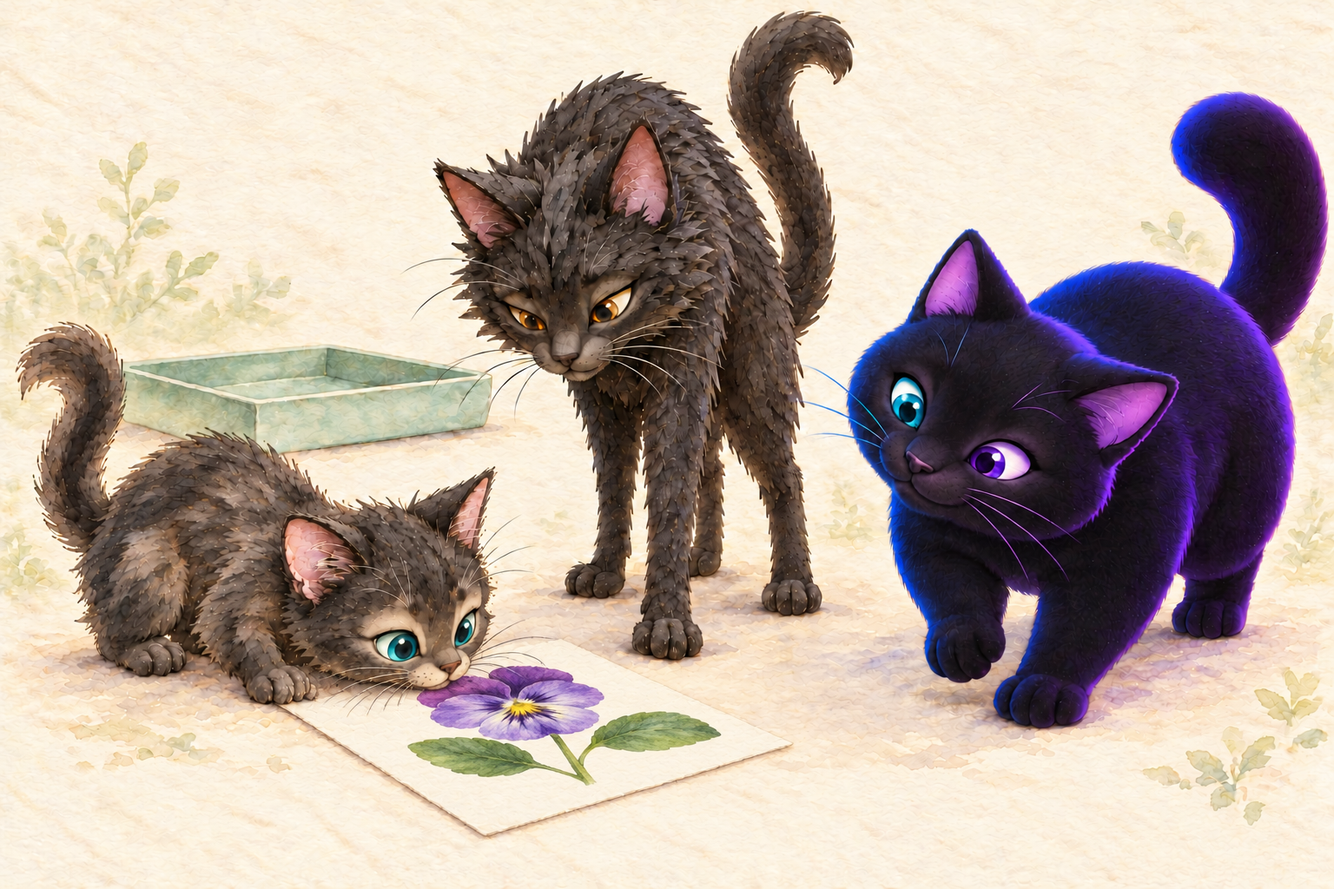
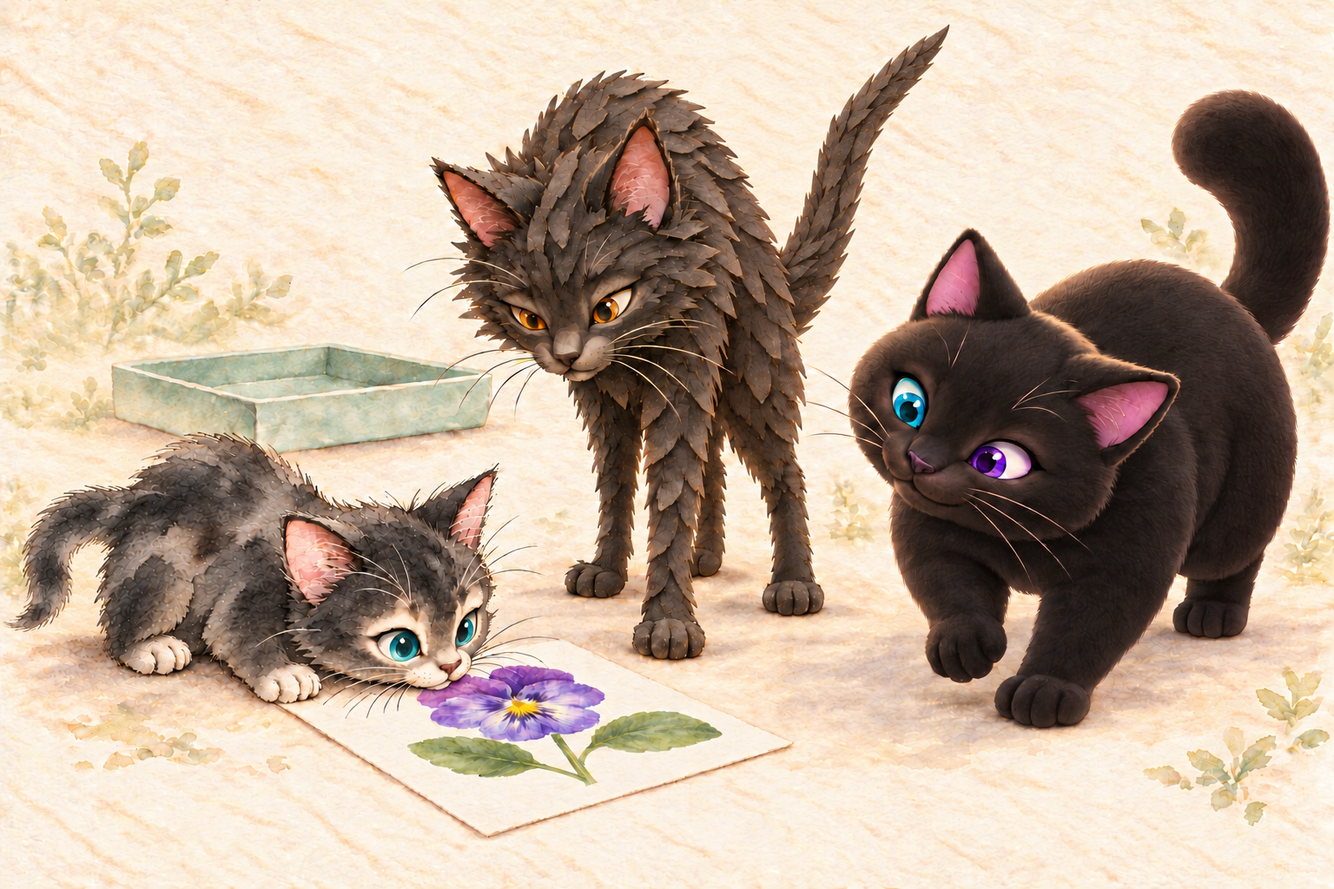
chore: update version to 0.13.1 and enhance changelog with artwork revisions

diff --git a/docs/design/explorations/art/website-cat-materials.md b/docs/design/explorations/art/website-cat-materials.md
@@ -1,0 +1,257 @@
+# Website cat materials and shared light
+
+October 17, 2026. Implements [GitHub issue #10](https://github.com/jeremyc2/Gatto/issues/10)
+and the user's follow-up corrections to the GitHub tray and final-scene tails.
+Generated with the built-in imagegen tool; no manual raster retouching.
+
+## Production assets
+
+The website uses these PNG masters and lossless WebP delivery copies at the
+original 1536 × 1024 dimensions. Historical exploration sources remain unchanged.
+
+| Scene | PNG master | Generated source |
+| --- | --- | --- |
+| bring | [story-bring.png](../../../../web/assets/images/story-bring.png) | `exec-bdcc2911-7c8d-4405-bad1-c61b53943fb7.png` |
+| upload | [story-upload.png](../../../../web/assets/images/story-upload.png) | `exec-6f226061-6a6b-469b-b32e-4adfdf2caf23.png` |
+| copy | [story-copy.png](../../../../web/assets/images/story-copy.png) | `exec-fbd6afba-c64d-46d7-b32a-f00bba866a4c.png` |
+
+## Treatment and continuity
+
+- The small teal-eyed kitten uses broad charcoal watercolor washes, soft pigment
+  edges, paper grain and delicate ink contours. Repeated cut-paper fur was removed.
+- The tall amber-eyed adult has crisp overlapping matte paper layers and visible
+  edges. The round cyan/violet-eyed adult keeps its smooth animated treatment.
+- All three share soft warm upper-left daylight and grounded shadows. The round
+  cat's separate blue/purple rim illumination was removed; its eye colors remain.
+- The GitHub tray has one shallow rim and a low far wall. The broad triangular
+  inner panel that read as a stacked second tier was lowered, exposing the flat
+  interior beside the picture. Both cats still grip the picture's top corners.
+- Across all three scenes, the paper cat has a slim, smoothly curving tail with
+  crisp layered cardstock from base to tip. Its forearms, wrists and paws use the
+  same construction. The watercolor kitten uses a lower flowing tail with visible
+  anatomical attachment, and the round cat keeps its thick rounded curl.
+- The upload picture rests farther back in the tray, with visible floor before
+  the front rim; its original landscape proportions and approximate scale are
+  retained while both cats hold the top corners.
+- The approved scene composition, botanical world, picture interaction, page copy,
+  layout, app icon, packaging and favicon remain in place. Small generated pigment
+  and flower details vary; these are illustrations, not identical prop composites.
+
+## Export
+
+From the repository root, with libwebp's `cwebp` available:
+
+```sh
+cwebp -quiet -lossless -z 9 web/assets/images/story-bring.png -o web/assets/images/story-bring.webp
+cwebp -quiet -lossless -z 9 web/assets/images/story-upload.png -o web/assets/images/story-upload.webp
+cwebp -quiet -lossless -z 9 web/assets/images/story-copy.png -o web/assets/images/story-copy.webp
+```
+
+The browser consumes only WebP; PNGs are the editable-generation masters. Keep
+both copies synchronized. Lossless export preserves the generated pixels and
+existing image geometry.
+
+## Exact prompt record
+
+Inputs were the corresponding historical `story-*-v3.png` scenes, then the
+preceding generated revision of that scene. The revised discovery scene anchored
+the other scenes' material and light; the original `cat-watercolor.png` study
+supported its refinement. The user-provided tray crop identified the rejected
+back-wall geometry. The final scene then supplied the watercolor medium reference
+for the upload kitten's last refinement. Intermediate outputs remain in the
+conversation's generated-image folder; the three final masters above are in the repo.
+
+### Bring
+
+```text
+Use case: style-transfer.
+Asset type: finished Gatto website story illustration, landscape 1536x1024.
+Input image 1: EDIT TARGET, the approved discovery scene.
+Improve ONLY the rendering materials of the three existing cats and unify their lighting. Preserve the exact composition, crop, identities, relative sizes, silhouettes, poses, anatomy, faces, gaze, ears, paws, tails, floor, empty celadon tray, plants and the organically integrated pansy picture in the foreground.
+The SMALL TEAL-EYED KITTEN at lower left must be unmistakably a traditional watercolor-and-reed-pen illustration: charcoal-black translucent pigment washes, soft bleeding edges, visible ivory paper grain through pigment, subtle wet-on-wet blooms, sparse delicate expressive ink contours and whiskers. REMOVE the small hard overlapping scales and cut-paper fur from this kitten. Preserve its tiny low crouch, teal eyes, cream muzzle and paw contact with the picture; charcoal black coat, not brown tabby. Painterly and tender, not 3D fur.
+The TALL AMBER-EYED ADULT at center must be unmistakably a physical charcoal-black cut-paper sculpture: larger visibly separate overlapping curled paper tufts, fibrous matte cardstock, crisp hand-cut contours and thin exposed paper edges with tiny occlusion shadows. Its slender anatomy, face and pose remain the same. No watercolor fur on this cat.
+The ROUND BLACK ADULT at right retains the smooth polished animated/cel-rendered style, round proportions, cyan and violet eyes and lilac inner ears. Give its charcoal/velvet-black coat coherent warm upper-left highlights and soft right-facing shadows. REMOVE the electric blue/purple neon rim light and colored glowing outline; retain cyan/violet eye colors as intrinsic character colors, not separate light sources. It should still feel like the same character.
+ONE SHARED LIGHT: broad soft warm daylight from upper left/front illuminates all three, the prop and floor. Each medium interprets the same direction: pale reserved pigment on kitten, warm cut-paper edge highlights on adult, broad warm soft/cel planes on round cat. Match soft floor contact shadows falling lower right. All three inhabit this same room.
+Preserve the existing warm ivory watercolor world and delicate botanical background with breathing room. No new objects, no clothing, no text, no watermark, no split panels. Preserve the pansy picture, paper size, foreshortening and contact exactly. Dramatic material distinction at website display size, without redesigning the cast or scene.
+```
+
+### BringRefine
+
+```text
+Use case: style-transfer. Image 1 EDIT TARGET, keep its entire scene and large two cats exactly unchanged. Image 2 is ONLY a watercolor medium reference, never copy its poses or contact sheet layout.
+Make ONE LOCALIZED STRONG CHANGE: repaint ONLY the SMALL CROUCHING TEAL-EYED KITTEN at lower left in unmistakably fluid traditional watercolor and delicate black ink. Completely eliminate ALL its sharply overlapping leaf/scale shaped pieces, hard platelets, brown mottled cut-paper patches and sculptural texture, including on its tail and forehead. Replace its entire coat with broad connected soft charcoal-black wash shapes, wet-on-wet gray pigment blooms, soft ragged brush edges and occasional dry brush strokes, visible unpainted ivory grain. Flat painted watercolor with expressive thin reed-pen contours; zero cut-paper texture and zero photoreal/3D fur. At small display size it must look like a watercolor painting living beside a paper sculpture. Keep teal eyes, cream muzzle, pink ears, little paws and exact crouching anatomy and raised curled tail, exactly the same place, gaze and nose/paw contact with the picture. Preserve the warm upper-left illumination by reserving pale paper highlights on top-left surfaces and washes for lower-right shadows.
+Everything outside that small kitten is locked: large amber-eyed paper adult, round cyan/violet-eyed black adult with warm light and NO blue/purple rim glow, background, plants, empty tray, exact foreground pansy picture and perspective, framing, image proportions. No new objects, no text. Landscape 1536x1024.
+```
+
+### Upload
+
+```text
+Use case: style-transfer. Asset: finished website story illustration, landscape 1536x1024.
+Image 1 is the EDIT TARGET: upload scene. Image 2 is the finished discovery scene, ONLY a reference for the three cats' distinct materials and shared lighting.
+Change only the rendering materials of the three existing cats and their lighting, matching image 2. Preserve image 1 composition, silhouettes, anatomical poses, relative sizes, exact paw positions, faces/gazes, ears, tails, plants, floor, tray, GitHub lettering and foreground flower picture. DO NOT copy image 2's arrangement, crouches or empty tray.
+SMALL TEAL-EYED KITTEN in center must be fluid traditional watercolor and fine reed-pen ink: broad connected charcoal-black translucent washes, soft bleeding pigment edges, visible ivory grain, wet-on-wet blooms, sparse dry brush strokes and expressive delicate ink whiskers. Completely replace the sharply overlapping leaf/scale/cut-paper patches, including forehead and tail, with watercolor wash shapes. Flat painted watercolor with expressive outline; no paper scales or 3D fur. Retain cream muzzle, pink ears, teal eyes, little paws and identity. Clear material difference from tall adult at website size.
+TALL AMBER-EYED ADULT at left must be a physical charcoal-black cut-paper sculpture: larger separate overlapping curled matte cardstock tufts, fibrous paper surfaces, crisp hand-cut edges and tiny interlayer shadows, matching image 2. Preserve slender body, reaching foreleg and all other anatomy.
+ROUND CYAN/VIOLET-EYED ADULT at right retains smooth polished animated/cel rendering and round velvety-black proportions with lilac ears. Remove ALL electric blue/purple rim light, glowing outline and colored fur illumination. Keep both intrinsic eye colors. Warm highlights and broad smooth charcoal shadow planes as image 2.
+One broad warm daylight source from upper left/front lights all cats, props and floor; soft shadows fall lower right, coherent with source. Watercolor reserves pale pigment/paper highlights, cut paper catches warm light on upper-left edges, round cat has warm soft planes.
+CRITICAL preserve the exact flower painting, card size and perspective, tall cat's extended paw resting OVER the upper-left card edge and small kitten's near paw resting OVER the upper-right card edge, card lowered into the celadon box, near rim visibly IN FRONT of lower card, exact readable painted word GitHub on front wall. No new objects, text, limbs, split panels or watermark. Keep scene and background unchanged.
+```
+
+### UploadTray
+
+```text
+Use case: precise-object-edit. Edit target: image 1, the Gatto upload illustration. One localized correction to the celadon GitHub tray ONLY. Keep all cats, distinct materials, warm shared lighting, exact paws gripping the picture, pansy picture, plants, floor, lettering and composition unchanged.
+The box currently has confusing stacked/double-height construction on its FAR/BACK side, visible behind and around the large leaning flower card. Redraw it as ONE simple shallow rectangular open tray with FOUR uniform low walls and ONE continuous top rim in correct perspective. Back wall must be the SAME physical height as the front and side walls; its top edge must join the side-wall top edges at the same plane. Remove any second horizontal lip, doubled back rail, extra tier, inner raised ledge or stacked box. Only one far wall, one thin cream top edge, one continuous celadon interior face. Where the card occludes the back wall, continue that same low wall invisibly behind it. Do not draw a high extra wall behind the card or a rim running across the card. The outer footprint and front GitHub wall stay in exactly the same place and size; readable painted text verbatim GitHub. Keep natural card insertion: both cats' paws overlap the upper card corners, card lower edge sits inside the tray behind the near wall. Preserve pansy painting unchanged. No new props or text. Landscape 1536x1024.
+```
+
+### UploadTrayLow
+
+```text
+Use case: precise-object-edit.
+Image 1 is full-scene EDIT TARGET. Image 2 is a close-up identifying a REJECTED DEFECT in its tray geometry, NOT a style/reference to copy.
+Correct ONLY the pale celadon tray in image 1: the TALL TRIANGULAR GREEN INNER PANEL visible to the RIGHT of the pansy card under the round cat's paws looks like a second stacked level. REMOVE THAT TALL PANEL. LOWER the FAR/BACK rim dramatically so the far wall is a narrow low rail near the tray floor, with only a THIN 10–15 pixel inner vertical face, not a big tall triangle/ramp. There must be one unmistakably simple shallow tray, uniform low walls, one top rim, no second tier or high raised back. Both top and bottom edges of each wall must be parallel in perspective with constant physical height. The back-right corner must be low, leaving a clearly visible strip of warm ivory FLOOR between the low far rim and the round cat's paws. Cats do not stand on the tray or form part of its wall.
+The near/right botanical wall can remain visible, but simplify its junction with the far wall to ONE low corner of a shallow rectangular tray. No broad green triangular face behind or above this near wall. The interior should read as a mostly FLAT FLOOR around the inserted card, with subtle thin near-contact shadows, not sloping walls or a deep well. Reduce ALL walls to the same shallow physical height as needed to fix perspective. Cream edge is a single thin line.
+Keep the exact readable word GitHub painted on front face, botanical decoration, approximate tray footprint and foreground position. Preserve both cats' paws overlapping the picture's upper corners, the leaning pansy card and its lower edge inside behind the near rim, the pansy artwork, all cats/poses/eye colors/materials/shared warm lighting, plants, background, framing and aspect ratio. No new objects, text or limbs. Landscape 1536x1024.
+```
+
+### UploadRefine
+
+```text
+Use case: style-transfer. Image 1 EDIT TARGET, Gatto upload scene. Image 2 is a reference ONLY for watercolor kitten's loose medium. ONE LOCAL CHANGE: the SMALL TEAL-EYED KITTEN in CENTER behind the pansy card.
+Make its coat decisively fluid HAND PAINTED WATERCOLOR matching image 2's kitten: a few broad connected charcoal-black/gray pigment washes, wet-on-wet blooms, ivory grain showing through, subtle bleeding edges, sparse expressive fine ink contours/whiskers. REMOVE every repeated small sharp overlapping cut-paper leaf/scale tuft from its forehead/body/tail and replace with flat flowing broad ink washes. No paper cut layers, no 3D sculptural fur. Preserve original kitten's size and exact silhouette, upright little head looking at card, teal eyes, cream muzzle, pink ears, curled tail, paws. Keep its front paw exactly overlapping upper-right corner of picture with natural contact, do not move it.
+EVERYTHING OUTSIDE THIS SMALL KITTEN IS LOCKED TO IMAGE 1. In particular preserve the corrected LOW shallow GitHub tray, its single rim, narrow far-wall inner face, visible flat floor to right of card and gap beneath round cat's paws. Do NOT raise the back wall or recreate a large green triangular inner panel or second tier. Preserve exact word GitHub and all tray details as image 1. Keep tall paper cat's exact materials, body/pose, round smooth cat's rendering and pose, all eye colors and tails, shared warm light, pansy painting/card/geometry/contact, floor, plants, background, framing and aspect ratio. Do NOT copy image 2's composition, final scene or lower kitten tail. No new objects, limbs, text or watermark. Landscape 1536x1024.
+```
+
+### Copy
+
+```text
+Use case: style-transfer. Asset: finished Gatto website story illustration, landscape 1536x1024.
+Image 1 is EDIT TARGET: final completed-picture scene. Image 2 is finished discovery scene, reference ONLY for the three cats' rendering materials and shared lighting.
+Change only rendering materials and lighting of the three cats in image 1 to match image 2, preserving image 1's composition, exact anatomical poses, relative sizes, silhouettes, faces/gazes, eyes, ears, paws, tails, plants, floor, tray, flower picture and framing. DO NOT copy image 2 poses or arrangement.
+SMALL TEAL-EYED KITTEN at right must be traditional fluid watercolor and delicate reed-pen ink: broad connected translucent charcoal-black washes, soft pigment blooms and bleeding edges, visible ivory paper grain, sparse dry brush marks and expressive thin ink whiskers. Remove ALL sculptural overlapping leaf/scale/cut-paper fur patches on kitten, including forehead/body/tail. Flat painted watercolor, not textured 3D fur, no hard paper scales. Retain teal eyes, cream muzzle, pink ears, little paws and play-bow with curled tail. Clearly different medium from tall paper cat.
+TALL AMBER-EYED ADULT at center must be physical charcoal-black cut-paper sculpture, with larger visibly separate curled matte cardstock tufts, fibrous paper surfaces, crisp hand-cut edges and tiny interlayer occlusion shadows, matching image 2. Same slender upright body, seated pose and amber eyes.
+ROUND CYAN/VIOLET-EYED ADULT at left retains smooth polished animated/cel rendering and round velvety black proportions with pink/lilac inner ears. REMOVE all electric blue/purple rim glow and colored fur lighting; preserve eye colors, identity and smooth broad modeling. Warm soft highlights from shared upper-left daylight, charcoal shadow planes.
+ONE broad soft warm daylight from upper left/front illuminates all three and floor, with coherent soft lower-right shadows and grounded feet. Paint highlights as reserved paper on watercolor, thin warm upper-left edge catches on paper sculpture, broad warm soft planes on round cat.
+Keep organically integrated violet pansy picture exactly as in image 1: card FLAT within celadon tray's interior floor, all card edges inside tray, front and side rims overlap it. Keep all paws outside tray, no hovering card or second sheet. Preserve warm ivory botanical watercolor background, floor and small plants. No new text, no GitHub label in this scene, no new objects or characters, no extra limbs, no split panels or watermark.
+```
+
+### CopyRefine
+
+```text
+Use case: style-transfer. Image 1 EDIT TARGET, final Gatto story scene. A very strong LOCALIZED medium change on ONLY the little teal-eyed kitten at RIGHT. Everything outside this kitten is locked.
+Repaint this kitten as a loose, unmistakably HAND PAINTED BLACK WATERCOLOR illustration with fine reed-pen outlines. Its body and head must have only a FEW LARGE SOFT CONNECTED CHARCOAL INK WASHES, fluid smoky gray pigment pooling, transparent watercolor edges, soft bleeding wet-on-wet shading and visible ivory grain. Remove every little leaf-shaped tuft/scale/plate/tile of fur completely. The existing kitten looks like another paper sculpture: change this decisively. Broad brushed masses with NO repetitive pointed fur shapes, no cut layers, no tiny detailed fur rendering, no three-dimensional sculptural texture. Loose transparent picture-book watercolor. Ink lines can define ear contours, paws and whiskers with sparse sketchy strokes, but the body interior should be mostly soft flowing dark washes and unpainted highlights. Match the original pose and silhouette exactly: play-bow, front paws stretched toward tray, hindquarters raised, long tail curling up. Same teal eyes, pink ears, cream muzzle, cream little paws, friendly face. Keep it clearly black/charcoal with cream muzzle, not a brown tabby or a gray cat.
+Keep upper-left warm light suggested through pale reserved paper, and soft painted contact shadows on same floor. Do not change large amber-eyed adult's sharp cut-paper layers, large smooth round cat, their faces and eye colors, warm shared lighting, tray, flower painting, foliage, composition or framing. Do not add props, text, limbs or watermark. Landscape 1536x1024.
+```
+
+### CopyTail
+
+```text
+Use case: precise-object-edit. Image 1 EDIT TARGET is finished Gatto final story scene.
+Make ONLY ONE LOCALIZED CHANGE: the SMALL WATERCOLOR KITTEN'S TAIL at FAR RIGHT. It must have a completely different silhouette from the tall paper cat's upright hooked tail behind its shoulder.
+Remove the small kitten's current high vertical hook/S-curl. Replace with a soft slender watercolor tail extending OUTWARD to the RIGHT at a LOW ALMOST HORIZONTAL angle from its rump, then relaxing DOWN in a single gentle arc, with its pointed brushy tip resting just ABOVE the floor inside the right image boundary. The tail stays behind its hind legs, stays fully visible within canvas, does not overlap any other cat/tail. Make it feel relaxed, fluid and flexible, NOT a second tall upright hooked curl. Preserve natural tail attachment at rump. No extra tail.
+Render this changed tail with loose smoky charcoal watercolor wash and sparse fine ink contour, soft pigment edges, paper grain, no paper-cut tufts. Keep the kitten's black watercolor body, cream paws/muzzle, teal eyes, exact play-bow pose, head/ears/gaze and body unchanged.
+LOCK EVERYTHING ELSE: the tall paper adult including its ORIGINAL upright hooked tail, the round adult including its ORIGINAL thick tail, the cats' distinct materials and shared warm light, plants, tray, exact pansy card lying flat inside tray, floor, composition, crop and all other pixels. No new objects/text/watermark. Landscape 1536x1024.
+```
+
+
+
+## Follow-up: tail anatomy, paper construction and card placement
+
+The user clarified that tail distinction includes posture, position and shape
+throughout the sequence, and that the paper cat's limbs and tail must retain the
+same cut-paper material as its torso. An angular-tail attempt was rejected as
+broken-looking; final paper tails use smooth anatomical curves with crisp paper
+layers. The kitten's upload tail root was then joined visibly to its rear haunch.
+The upload card was moved away from the front corner, with its earlier scale
+restored after an intermediate size reduction was rejected. The final images
+above supersede the earlier pass while retaining its prompts below.
+
+### BringPrompt
+
+```text
+Use case: style-transfer / precise-object-edit.
+Asset: Gatto discovery scene, landscape 1536x1024.
+Image 1 is EDIT TARGET. Correct paper-cat material continuity and differentiate tail POSTURE, POSITION and SHAPE. Preserve scene composition, all faces/eye colors, body poses, paw placements, lighting, pansy picture, plants and tray.
+
+TALL AMBER-EYED PAPER CAT in center: it is a physical sculpture made entirely of charcoal matte cardstock. Keep the good crisp overlapping pointed paper layers on its torso and head, and apply EXACTLY THAT SAME CONSTRUCTION to EVERY limb, every forearm, wrist, paw, toe and its ENTIRE TAIL. Visible cut edges, tiny cast shadows between layers, fibrous matte cardstock, rigid folded/curled paper surfaces. Forelegs must have overlapping small paper plates and clearly folded paper toes, not smooth realistic furry legs or watercolor strokes. Paper tail must have clear overlapping cut-paper shingles from base through tip, clean solid silhouette and tiny layer shadows. No smoky pigment, soft watercolor edges, fluffy brush fur or fading paper texture anywhere on this cat.
+
+REDESIGN PAPER CAT TAIL: remove its existing fluffy upright C-hook. At the same natural tail base, create a LONG SLIM TAPERED FACETED paper tail rising diagonally UP then bending once in a clear angular kink, terminating in a small POINTED paper tip. This is a narrow elegant sculpted tail, NOT a round hooked curl, loop or S. Keep it wholly inside canvas, with clear negative space from ears and other tails. Its layered paper construction must be just as crisp as the shoulder, all the way to tip.
+
+SMALL WATERCOLOR KITTEN at lower left: replace its upright hooked tail with a LOWER loose lateral swish extending LEFT from its rump, softly bending toward floor with a slender brushy taper. Fully within left canvas margin, no loop or high hook. Tail is watercolor, continuous smoky ink washes and loose contour matching kitten body, never paper scales. Preserve kitten body/head/paws exactly.
+
+ROUND SMOOTH CAT at right: preserve its thick rounded upright curled tail and all its smooth rendering. Its tail now contrasts with slim angular paper tail and low flowing watercolor tail.
+
+Lock the remaining world: warm shared upper-left daylight, soft grounded shadows, same three black cats, same body proportions, eyes and expressions, same exact pansy picture and contact under kitten's nose/paw, empty celadon tray, botanical background and framing. No objects, limbs or text added. No redesign of faces or body poses. No neon rim light.
+```
+
+### BringSmoothPrompt
+
+```text
+Use case: precise-object-edit. Image 1 EDIT TARGET. One local correction ONLY to the tall amber-eyed PAPER CAT'S TAIL in the center-right upper region.
+Remove the abrupt angular bend that makes this tail look broken. Replace its centerline with a SINGLE SMOOTH GENTLE NATURAL ARC rising from the same rump and sweeping up-right, gradually tapering to a narrow rounded feline tip. No elbow, sharp kink, zigzag, crease across tail, spear tip, right angle, tight hook or loop. It should feel like a flexible cat tail in an alert relaxed diagonal pose, not a rigid branch or a feather. Tail's OUTLINE has smooth curvature; individual surface paper layers still have crisp cut edges.
+CRITICAL MATERIAL: this is still physical charcoal cut-paper sculpture, entirely covered from base to tip by overlapping matte cardstock shingles with crisp edges, visible paper fibers and tiny interlayer cast shadows EXACTLY matching its torso and arms. Do NOT make tail soft furry or watercolor. Do NOT soften the individual paper edges; only smooth the underlying anatomical centerline. Full tail within image margin with breathing room at top.
+Everything else remains identical: three cat faces/eyes/body poses/paper forearms/paws, low loose watercolor kitten tail at left, thick rounded animated cat tail at right, warm light, pansy picture and contact, empty tray, plants, framing. Landscape 1536x1024.
+```
+
+### UploadPrompt
+
+```text
+Use case: style-transfer / precise-object-edit. Gatto upload scene, 1536x1024 landscape.
+Image 1 is EDIT TARGET. Image 2 is MATERIAL/TAIL-DESIGN REFERENCE ONLY: revised discovery scene. Keep image 1's composition and poses; do not copy image 2 layout or tray.
+Two corrections: paper-cat material consistency throughout EVERY limb and tail, plus three distinct tail silhouettes.
+
+TALL AMBER-EYED ADULT at LEFT is the SAME physical charcoal cut-paper sculpture as image 2. Preserve torso/head's overlapping matte cut-cardstock layers and extend this construction all the way along EVERY limb including the LONG HORIZONTAL REACHING FOREARM, wrist, gripping paw, toes, hind legs and tail. The extended arm must clearly be built from overlapping hand-cut paper shingles with sharp exposed edges and small interlayer shadows, not a smooth furry tube or watercolor smudge. At bends, show folded cardstock joints, especially wrist and gripping paw. All surfaces matte fibrous paper, not natural fur or ink wash.
+REPLACE this adult's high fluffy hooked tail with the SAME slim tapered faceted paper-tail design as image 2: a long narrow paper tail rising diagonally up from its natural rump, one distinct angular bend, small pointed tip. Here it rises along left side of body, fully within canvas and away from its head. No loop, thick rounded hook, smoky edge, fluffy fur or watercolor on tail. Crisp layered paper shingles extend continuously from base to pointed tip.
+
+WATERCOLOR KITTEN at CENTER: its tail must have a different posture/position/shape, a loose slender smoky watercolor swish extending LOW and LEFT behind its body above the paper card's top edge; a gently flowing horizontal/diagonal curve with tapered brush tip, NOT a tall upright hook/C/S. Must stay visually separate from paper adult's extended arm; tail connects only to kitten's rump. Preserve broad soft charcoal pigment washes on kitten, cream muzzle/paws, teal eyes, exact head pose and paw overlap on the card.
+
+ROUND SMOOTH CAT at RIGHT: retain thick rounded tail curled close beside rump, preserve its smooth animated rendering and cyan/violet eyes. Thick compact curl versus tall angular paper tail versus lower loose painted tail.
+
+LOCK THE CORRECTED TRAY: the single LOW shallow celadon GitHub tray, narrow far-wall interior strip, flat interior floor visible right of card, one top rim, no tall triangular rear panel, no stacked tiers. Word GitHub exactly on front. Preserve two cats' paws visibly gripping the two upper corners, leaning pansy painting/paper size/perspective/lower edge inside behind near rim. Keep all other cats' body poses, faces, sizes, ears, eyes, plants, floor, background, framing and shared warm upper-left light. No extra limbs, props, text or neon rim glow.
+```
+
+### UploadPlacementPrompt
+
+```text
+Use case: precise-object-edit. Image 1 EDIT TARGET, Gatto upload scene. Image 2 material/curve reference ONLY (not composition). Landscape 1536x1024.
+Two necessary localized corrections:
+1. PAPER CAT'S TAIL at upper left: replace the sharp bent/kinked centerline with ONE SMOOTH NATURAL GENTLE ARC rising from same rump. A slender elegant feline tail extending up-left with mild gradual curvature, NO angular elbow, zigzag, kink, tight hook or loop; tip well within canvas. Its SURFACE must remain entirely physical crisp cut-cardstock layers matching its torso and reaching forearm: overlapping charcoal matte shingles, clear cut edges, small layer shadows from base through tip. Smooth underlying anatomy, crisp individual paper pieces; no watercolor or fluffy fur.
+2. REPOSITION THE PANSY CARD INSIDE THE TRAY. Currently lower paper corner butts against tray's FRONT corner/rim. Move the card's LOWER EDGE into the BACK-CENTER HALF of the tray interior, well away from front and side walls. Make card somewhat smaller and more upright if needed, while keeping same recognizable violet pansy painting and physical rectangular paper proportions. There must be a CLEAR BROAD VISIBLE STRIP OF EMPTY IVORY TRAY FLOOR between the card's bottom edge and the entire front wall, including front-right corner. Card must NOT rest on, touch, cover or wedge against front rim/corner. Leave visible interior margin to BOTH side walls too. The bottom edge rests on the interior FLOOR nearer the far side, with close contact shadow, not floating.
+Both paper cat and little kitten still hold the card's two upper corners with paws visibly overlapping paper; make SMALL NATURAL ADJUSTMENTS to their reaching forearms/paws and card tilt as needed to fit this physically correct placement, while keeping overall body poses and positions. Preserve crisp overlapping paper layers on ENTIRE long reaching arm, wrist, paws and toes, no furry smooth joints. Little kitten remains watercolor with cream paw.
+Keep corrected tray geometry: one LOW shallow uniform wall height, single thin cream rim, narrow far-wall interior strip, no large triangular tall rear panel or second tier. Keep readable GitHub painted exactly on front face and botanical decoration. Keep tray footprint and position. Keep all cats' faces/eyes/body sizes/poses, lower loose watercolor tail behind kitten, thick compact rounded tail of smooth round cat, warm shared light, plants, floor and framing. No new objects, extra tails/limbs, text, neon glow. Do not copy image 2 arrangement.
+```
+
+### UploadAttachCardPrompt
+
+```text
+Use case: precise-object-edit. Gatto upload illustration, landscape 1536x1024.
+Image 1 EDIT TARGET. Image 2 is the PREVIOUS CARD-SIZE REFERENCE ONLY: keep its original cream flower card's physical dimensions, rectangular proportions and size relative to cats/paws. Do NOT copy image 2 tray placement or old tail. Image 3 is canonical flower paper reference, landscape 3:2, content/proportions only.
+Two precise local corrections in image 1:
+A. THE LITTLE WATERCOLOR KITTEN'S TAIL IS DISCONNECTED-LOOKING. Repaint its ROOT and the small rear HAUNCH so the tail visibly grows from the kitten's RUMP at the end of its spine, behind its body. Show an unbroken outline and continuous charcoal watercolor washes from rear haunch into a thicker tail base that gradually tapers along the low sideways tail. There must be NO floating separate brushstroke, no gap at attachment, no attachment to neck/shoulder, and no attachment to adult cat's forearm. Reveal a little rounded rear haunch behind the kitten's left flank if necessary to make its actual root unmistakable. Keep lower leftward flowing tail, natural anatomy and kitten's original head/face/teal eyes, watercolor medium and grip on card.
+B. RESTORE ORIGINAL FLOWER CARD'S PHYSICAL SIZE AND SHAPE from IMAGE 2. Image 1 made it too small and changed dimensions. It is the SAME landscape cream rectangular 3:2 botanical picture across all scenes, not a miniature square or portrait card. Enlarge the card back to image 2's scale relative to the cats' paws (roughly one-quarter larger than image 1), preserving recognizable exact violet pansy arrangement and original paper aspect ratio. Position and tilt this rigid unchanged-size card so its LOWER EDGE rests on the tray FLOOR toward BACK-CENTER, with CLEAR FLOOR SPACE in front of it and beside it. It must not butt into front corner, lie on rim, float, or extend outside tray. Use a more upright tilt and modest backward shift; do NOT shrink or squash the paper to make it fit. Both cats' paws still visibly overlap the top two corners; adjust only their reaching wrists/forearms locally as needed for natural contact.
+Preserve ALL crisp layered charcoal cardstock on paper adult's entire reaching forearm, wrists, paws and tail; its newly smooth gently curved slender tail and all other adult body poses/face/amber eyes stay. Keep round smooth cat, eye colors, thick rounded tail. Preserve single shallow tray wall/rim, no stacked tiers or tall triangular back panel, readable GitHub label, background, floor, plants, warm shared light and framing. No extra objects, tails, limbs or text.
+```
+
+### UploadRootPrompt
+
+```text
+Use case: precise-object-edit. Image 1 EDIT TARGET. Change ONLY the small watercolor kitten's REAR BODY AND TAIL ATTACHMENT, centered between adult's reaching arm and kitten's head.
+Current horizontal tail looks like a floating brushstroke coming from near its shoulder. REMOVE this ambiguous floating tail shape. Reveal a small anatomically clear ROUNDED REAR HAUNCH to the LEFT of kitten's shoulder, behind the card. Connect it continuously to the kitten's existing visible torso with a gentle arched back. The tail must visibly emerge from the LOW REAR END OF THIS HAUNCH, immediately above the hindquarters, at the end of the spine. Draw an unbroken, clearly readable charcoal silhouette and pigment continuity across hip into a substantial natural tail base.
+From this unmistakably attached root, let the slender tail flow LEFT in a low gentle natural curve behind the adult forearm, then taper with relaxed brushy tip. Its base must be lower than the kitten's shoulder, NOT attached near neck/head. No gap of background at base, no isolated stroke, no extra tail or limb, no tail attached to adult's arm. If necessary move the low tail's curve locally to show the root, but do not make a high upright hook.
+Watercolor medium stays broad soft charcoal washes and ink contours, cream muzzle/paw, exact teal eyes/head/ear positions and expression. Everything else LOCKED, especially current restored-size LANDSCAPE flower card and its exact shape, painting, tilt and location with empty tray floor in front, both paws gripping top corners, GitHub tray's geometry/lettering, paper adult's crisp layered material on forearm/paws/tail, smooth natural adult tail curves, round cat, lighting, plants and framing. Do not shrink/resize card, change other cats, or add objects. Landscape 1536x1024.
+```
+
+### CopyPrompt
+
+```text
+Use case: style-transfer / precise-object-edit. Gatto final scene, landscape 1536x1024.
+Image 1 EDIT TARGET, image 2 REFERENCE ONLY for consistent paper construction and NATURAL SMOOTH tail curvature. Preserve image 1 composition/poses and do not copy image 2 scene.
+TALL AMBER-EYED SEATED ADULT in CENTER must be entirely a physical matte charcoal cut-paper sculpture with the exact crisp overlapping hand-cut cardstock layers of its own torso and image 2. Apply same material continuously to ALL legs, arms, wrists, paws, toes and ENTIRE TAIL. No soft fuzzy/watercolor edges or smooth furry limbs. Visible sharp cut-paper edges, fibrous matte surfaces, curled layered shingles and tiny interlayer cast shadows all the way to tail tip and paw tips. Wrist and toe joints should look folded from paper, not realistic skin covered with a few tufts. Keep face/eyes/ears/body silhouette and proportions.
+
+REPOSE THIS PAPER CAT'S TAIL: replace existing rounded upright hooked/C-curl with a SLIM TAPERING tail rising diagonally OUTWARD TO THE RIGHT behind its body in a LONG GENTLE SMOOTH ARC, through the open space above/right of its haunch and above the watercolor kitten. A relaxed flowing feline centerline, no abrupt angle, elbow, crease, zigzag, kink, broken-looking bend, loop, short round hook or spear. Distinct from other cats' tail positions. Maintain negative space from kitten's head/ears and paper adult's shoulder; fully within canvas. The anatomical shape is curved and flexible, but all individual surface layers remain sharply cut physical PAPER continuously base to tip, not watercolor or fluffy brush fur.
+
+Preserve SMALL WATERCOLOR KITTEN at RIGHT with its already DIFFERENT LOW DROOPING tail behind hind legs, loose pigment washes and smoky ink-contour edge. Do NOT raise, hook, stiffen, or turn kitten tail into paper. Keep its exact play-bow, teal eyes, cream muzzle/paws and head.
+Preserve ROUND SMOOTH CAT at LEFT with its THICK UPRIGHT ROUNDED CURL and smooth animated fur, cyan/violet eyes.
+Three distinct tail postures/shapes: slender diagonally outward paper arc, low loose watercolor droop, thick upright rounded animated curl.
+Lock all other details: pansy picture FLAT inside tray behind rims, all paws outside completed tray, botanical floor/background, warm upper-left shared light, soft ground contact shadows, sizes/poses/gazes/eye colors and framing. No new props, text, extra limbs or tails, no neon light, no sharp broken anatomical tail bend.
+```
+

diff --git a/README.md b/README.md
@@ -70,6 +70,6 @@ Built with **[Rust](https://rust-lang.org/), [GPUI](https://gpui.rs/), and
 | Contribute | [Development](CONTRIBUTING.md), [architecture](docs/ARCHITECTURE.md), [releases and size measurements](docs/RELEASING.md), [PR template](.github/PULL_REQUEST_TEMPLATE.md) |
 | Design decisions | [Window lifecycle](docs/adr/0001-retain-macos-windows-to-avoid-touch-bar-crashes.md), [website scrolling](docs/adr/0002-preserve-native-scrolling-in-the-website-story.md), [website favicon](docs/adr/0003-use-the-luminous-black-cat-for-the-website-favicon.md), [installer research](docs/research/dmg-install-cleanup.md), [README research](docs/research/readme-examples.md), [website design research](docs/research/distinctive-website-design.md) |
 | Website | [Development and build](web/README.md) |
-| Website exploration | [website notes](docs/design/explorations/website-notes.md), [organic scene prompts](docs/design/explorations/art/organic-integration.md), [Study shelf](docs/design/explorations/index.html), [scrolling story](docs/design/explorations/story-sequence.html), [study guide](docs/design/explorations/README.md), [shared-discovery feedback](docs/design/explorations/feedback/shared-discovery.md), [postcard feedback](docs/design/explorations/feedback/identity-postcards.md), [mood board](docs/design/explorations/moodboard.html), [design-system study](docs/design/explorations/design-system.html), [storyboard](docs/design/explorations/storyboard.md), [artwork notes](docs/design/explorations/art/README.md), [redraw notes](docs/design/explorations/art/redraw-notes.md), [redraw prompts](docs/design/explorations/art/redraw-prompts.md), [reference notes](docs/research/moodboard-reference-notes.md), [mixed-media research](docs/research/mixed-media-character-worlds.md) |
+| Website exploration | [website notes](docs/design/explorations/website-notes.md), [organic scene prompts](docs/design/explorations/art/organic-integration.md), [website artwork revision](docs/design/explorations/art/website-cat-materials.md), [Study shelf](docs/design/explorations/index.html), [scrolling story](docs/design/explorations/story-sequence.html), [study guide](docs/design/explorations/README.md), [shared-discovery feedback](docs/design/explorations/feedback/shared-discovery.md), [postcard feedback](docs/design/explorations/feedback/identity-postcards.md), [mood board](docs/design/explorations/moodboard.html), [design-system study](docs/design/explorations/design-system.html), [storyboard](docs/design/explorations/storyboard.md), [artwork notes](docs/design/explorations/art/README.md), [redraw notes](docs/design/explorations/art/redraw-notes.md), [redraw prompts](docs/design/explorations/art/redraw-prompts.md), [reference notes](docs/research/moodboard-reference-notes.md), [mixed-media research](docs/research/mixed-media-character-worlds.md) |
 | Artwork | [Installer](packaging/dmg-artwork.md), [kitten coin](packaging/kitten-coin.md) |
 | Agent guidance | [AGENTS.md](AGENTS.md), [CLAUDE.md](CLAUDE.md), [documentation upkeep](docs/agents/documentation.md), [issue tracker](docs/agents/issue-tracker.md), [triage labels](docs/agents/triage-labels.md), [domain docs](docs/agents/domain.md) |

diff --git a/web/README.md b/web/README.md
@@ -34,3 +34,10 @@ the build and story logic; they do not measure browser layout.
 
 [Design system](DESIGN-SYSTEM.md) owns the styling conventions, component APIs,
 CSS budget and measurements.
+
+Story illustrations live in `assets/images/`: `story-bring`, `story-upload`, and
+`story-copy`. Each PNG master has a matching lossless WebP served by the website;
+keep both copies synchronized at 1536 × 1024. The cast uses watercolor, layered
+paper and smooth animated rendering under shared warm light. The
+[artwork record](../docs/design/explorations/art/website-cat-materials.md) contains
+the source provenance, prompts and export commands.

diff --git a/CHANGELOG.md b/CHANGELOG.md
@@ -7,8 +7,14 @@ and this project follows [Semantic Versioning](https://semver.org/spec/v2.0.0.ht
 
 ## [Unreleased]
 
+## [0.13.1] - 2026-10-17
+
 ### Fixed
 
+- Make the website's watercolor and paper cats more distinct, unify the cast's
+  lighting, keep the paper cat's limbs and tail consistently layered, distinguish
+  tail postures throughout the story, and correct the GitHub tray and picture
+  placement.
 - Keep website story illustrations centered within the available scene height on
   wide, shorter screens, preventing overlap with the chapter tracker.
 

diff --git a/docs/design/explorations/art/organic-integration.md b/docs/design/explorations/art/organic-integration.md
@@ -1,5 +1,8 @@
 # Organic picture integration
 
+The production website now uses the [October 17 material and lighting revision](website-cat-materials.md).
+The exploration studies retain the `v3` sources below as historical artwork.
+
 October 16, 2026. Built-in image-generation tool. The user rejected the independent prop overlay because paws and box rims did not correctly overlap it. These edits integrate the shared picture reference into each illustration instead.
 
 | Active file | Generated source |
